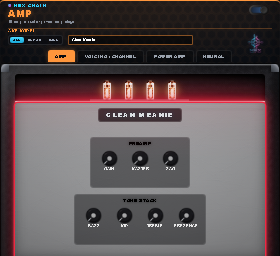
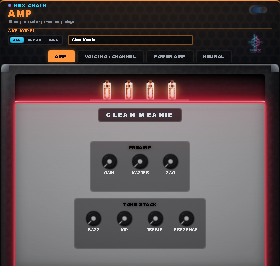
Standalone amp: room under the control groups on the two-row models
On the models with a second control row (Gainzilla, Crunchy, Doom Daddy, Beardo
BE, Diamond Plate) the control groups' dark boxes sat 3 px inside the faceplate's
padding edge, so the box read as touching the tolex strip below the plate. Panel
750 -> 780, the cabinet face 30 px deeper with a slimmer tolex strip, the plate's
bottom padding 16 -> 24: measured live the boxes now end 42 px above the plate's
edge on every two-row model.

Claude-Session: https://claude.ai/code/session_01AxG6aF8uihDiXgujmLqppd

Changed region(s): [[0.0, 0.0, 1.0, 0.5], [0.2571, 0.7188, 0.7429, 0.9688], [0.3143, 0.5312, 0.6857, 0.6875]]

diff --git a/lv2/modgui-amp/stylesheet-amp.css b/lv2/modgui-amp/stylesheet-amp.css
@@ -12,7 +12,7 @@
     background-repeat: repeat, no-repeat, no-repeat;
     background-position: center top, center top, center top;
     background-size: 28px 49px, 100% 100%, 100% 100%;
-    height: 750px;   /* FIXED height (600 -> 750, 2026-09-24: measured live, the AMP tab face reaches 729 px on the models with a switch row - it hung 129 px off the panel).  Taller so the tallest tab panel's controls have comfortable bottom padding inside the plate (were jammed at the plate edge) + tolex footroom. */
+    height: 780px;   /* FIXED height (750 -> 780, 2026-09-24: on the two-row models (Gainzilla) the control groups sat on the plate's bottom edge, touching the tolex strip; 600 -> 750 earlier: measured live, the AMP tab face reaches 729 px on the models with a switch row - it hung 129 px off the panel).  Taller so the tallest tab panel's controls have comfortable bottom padding inside the plate (were jammed at the plate edge) + tolex footroom. */
     width: 820px;
     position: absolute;
     border-radius: 12px;
@@ -309,8 +309,8 @@
     --tint: rgba(0,0,0,0); --panel: none; --badge: #f3ead9;
     /* per-model covering + welt piping (hf-face-mN sets these) */
     --cov: url(/resources/tolex-m1.png{{{ns}}}); --pipe: #ded6c4; --covsize: 128px; --covbase: #2a2a2e;
-    position: relative; margin-top: 4px; padding: 26px 40px 46px;
-    min-height: 556px; display: flex; flex-direction: column;   /* fills the 750 px panel on every model; the plate stretches, its groups sit centred */
+    position: relative; margin-top: 4px; padding: 26px 40px 38px;
+    min-height: 586px; display: flex; flex-direction: column;   /* fills the 780 px panel on every model; the plate stretches, its groups sit centred */
     border-radius: 14px 14px 10px 10px;
     /* THE CABINET. Layers, front to back: key light from the upper left, warm floor
        bounce, the rolled top edge catching the room, body falloff toward the bottom
@@ -451,7 +451,7 @@
 .mod-pedal-guitaramp-amp{{{cns}}} .hf-amp-grille { display: none; }
 /* Brushed per-model control plate (var(--panel) = faceplate-mN.png; gold/cream/black/…) */
 .mod-pedal-guitaramp-amp{{{cns}}} .hf-amp-plate {
-    position: relative; z-index: 3; padding: 12px 26px 16px;
+    position: relative; z-index: 3; padding: 12px 26px 24px;
     flex: 1 1 auto; display: flex; flex-direction: column;
     /* No covering wrap: the faceplate is bare metal, and the PIPING around it is the neon
        (hf-neon-ring animates the whole box-shadow, ring and depth together). */
@@ -525,7 +525,7 @@
 /* ── POWER AMP: its own tolex chassis panel (matches the faceplate/cabinet) ── */
 .mod-pedal-guitaramp-amp{{{cns}}} .hf-pa-face {
     --acc:#19e0ff;
-    position: relative; margin: 6px 16px 10px; padding: 14px 18px 26px; min-height: 556px; box-sizing: border-box;
+    position: relative; margin: 6px 16px 10px; padding: 14px 18px 26px; min-height: 586px; box-sizing: border-box;
     border-radius: 12px; border: 1px solid rgba(255,255,255,.08);
     background-color: #14161c;
     background-image:

diff --git a/build-tools/render_modguis.py b/build-tools/render_modguis.py
@@ -13,7 +13,7 @@ THUMB_W = 280
 
 # pedal -> (ttl basename, width, height). Sizes are the .mod-pedal root w/h in each stylesheet.
 PEDALS = {
-    "amp":    ("amp.ttl",     820, 750),   # 2026-09-24: sized from live measurement (amp/cab/modfx/nail)
+    "amp":    ("amp.ttl",     820, 780),   # 2026-09-24: sized from live measurement (amp/cab/modfx/nail)
     "cab":    ("cab.ttl",     660, 660),   # widened 2026-07-25 (Voice/Density rows)
     "drive":  ("drive.ttl",   500, 430),
     "delay":  ("delay.ttl",   540, 576),
